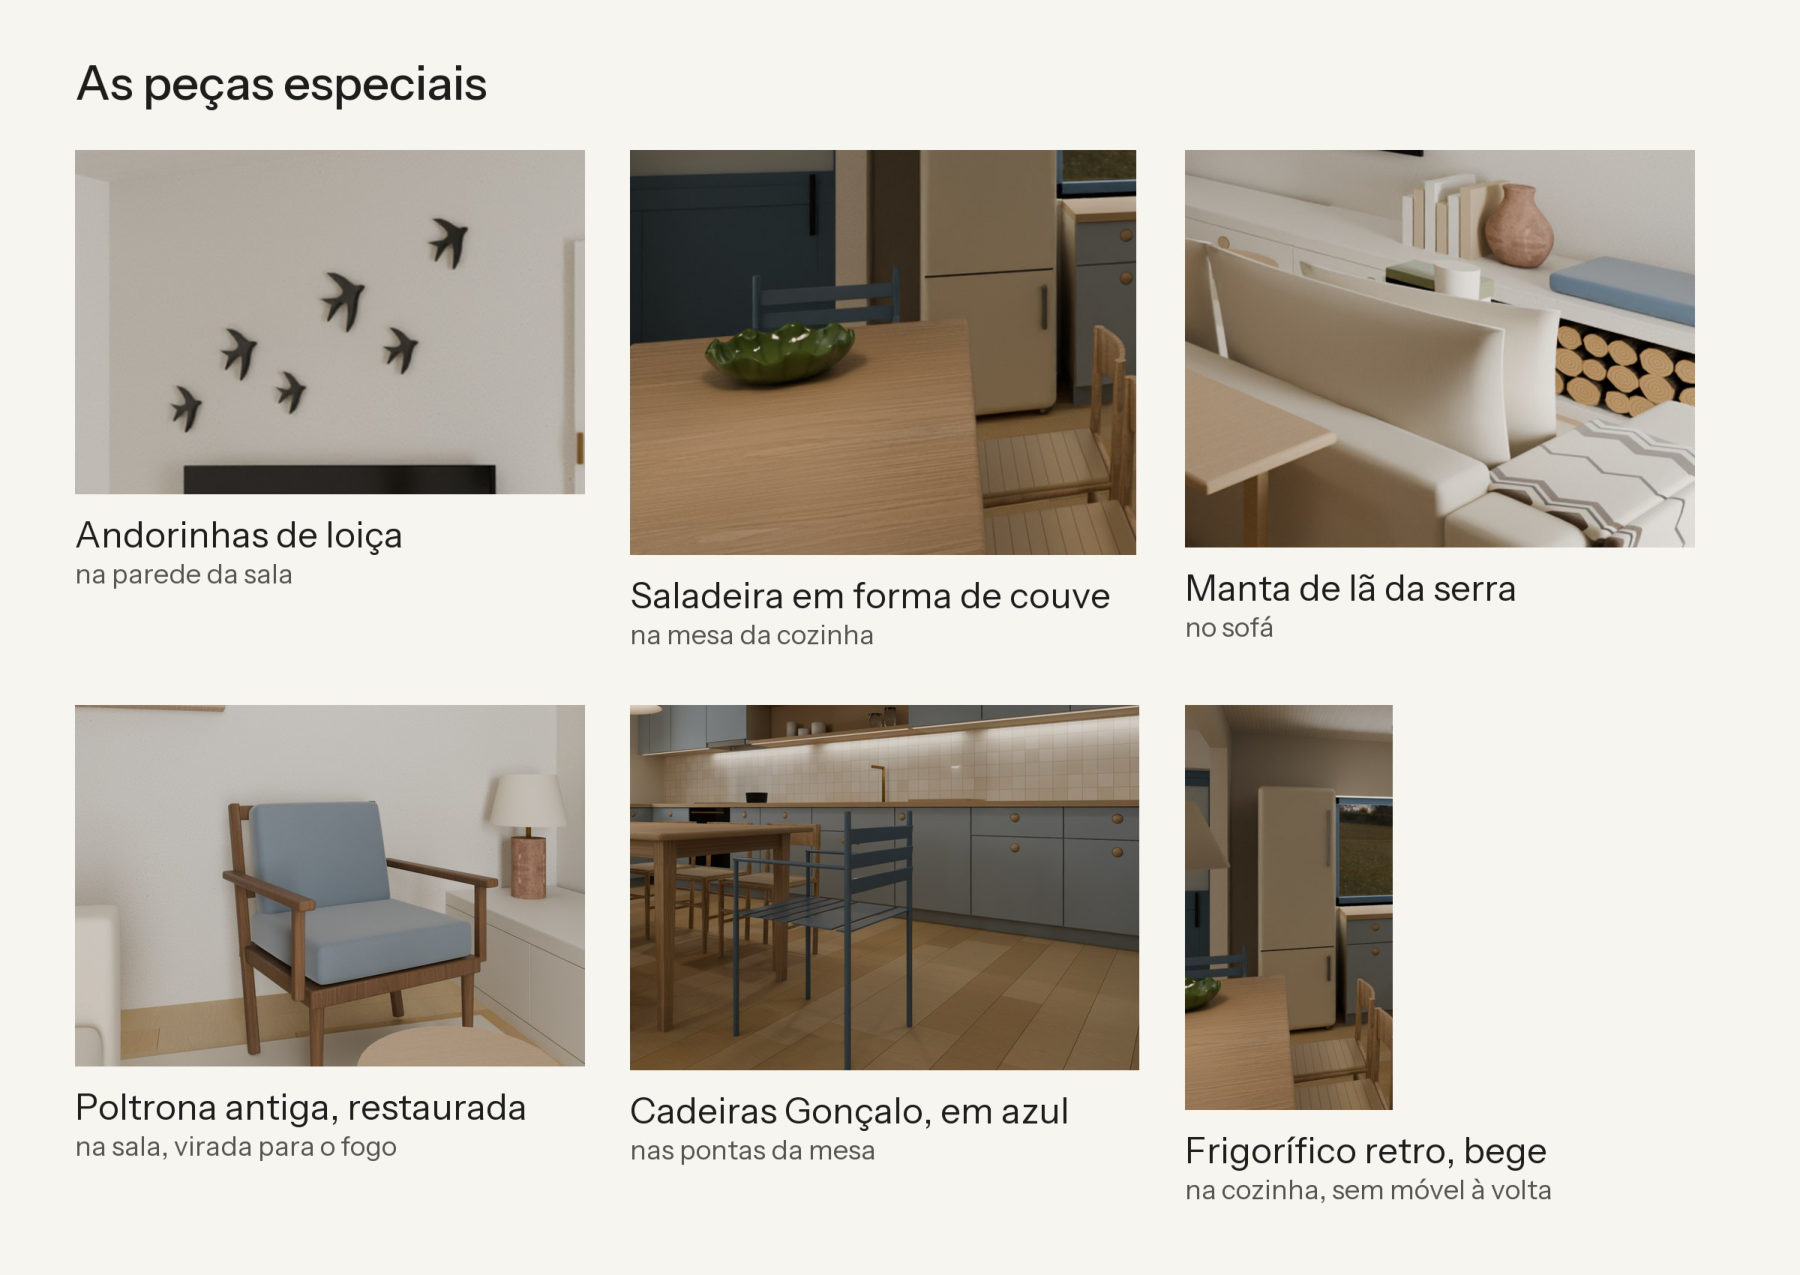
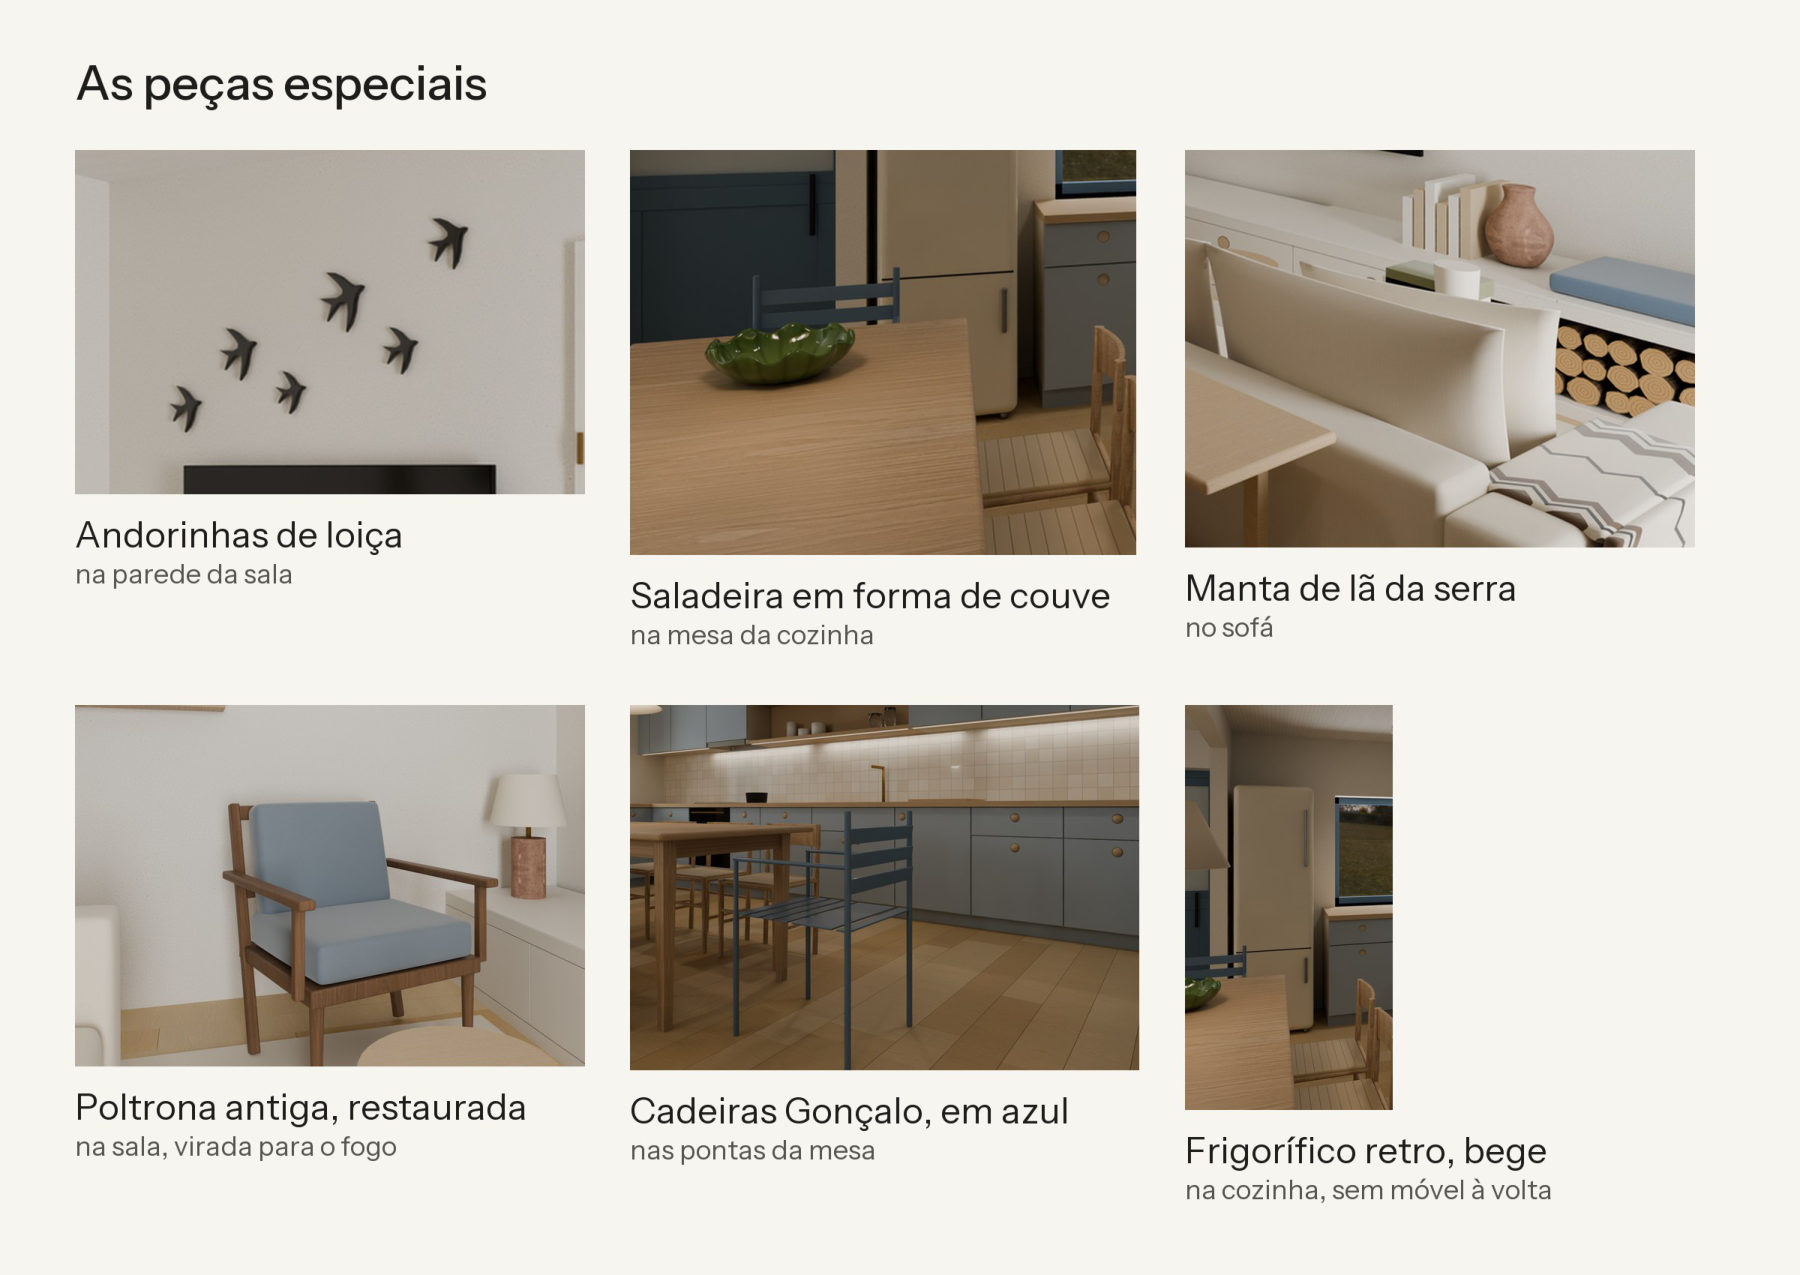
Documentos refeitos com a cozinha de hoje

Changed region(s): [[0.56, 0.1224, 0.6222, 0.3365], [0.6844, 0.6118, 0.7467, 0.8259], [0.4667, 0.1224, 0.5289, 0.2447]]

diff --git a/doc/estudo-previo.html b/doc/estudo-previo.html
@@ -19,4 +19,4 @@ figcaption{margin-top:10px;font-size:14px;color:var(--cinza)}
 <header><a href="../index.html#documentos" aria-label="Casa Chãs d’Égua, voltar ao projeto"><img class="logo" src="../marca/logo.svg" alt="" width="42" height="44"></a>
 <a class="voltar" href="../index.html#documentos"><svg viewBox="0 0 256 256" aria-hidden="true"><path d="M222,128a6,6,0,0,1-6,6H54.49l61.75,61.76a6,6,0,1,1-8.48,8.48l-72-72a6,6,0,0,1,0-8.48l72-72a6,6,0,0,1,8.48,8.48L54.49,122H216A6,6,0,0,1,222,128Z"/></svg>Voltar ao projeto</a></header>
 <div class="cab"><h1>Estudo prévio</h1><p>19 folhas em A3: plantas, cortes, vistas e mapa de acabamentos.</p></div>
-<main><figure><img src="ver/estudo-previo/01.jpg" width="1800" height="1273" alt="Estudo prévio, folha 1" loading="eager"><figcaption>Folha 1 de 19</figcaption></figure><figure><img src="ver/estudo-previo/02.jpg" width="1800" height="1273" alt="Estudo prévio, folha 2" loading="eager"><figcaption>Folha 2 de 19</figcaption></figure><figure><img src="ver/estudo-previo/03.jpg" width="1800" height="1273" alt="Estudo prévio, folha 3" loading="lazy"><figcaption>Folha 3 de 19</figcaption></figure><figure><img src="ver/estudo-previo/04.jpg" width="1800" height="1273" alt="Estudo prévio, folha 4" loading="lazy"><figcaption>Folha 4 de 19</figcaption></figure><figure><img src="ver/estudo-previo/05.jpg" width="1800" height="1273" alt="Estudo prévio, folha 5" loading="lazy"><figcaption>Folha 5 de 19</figcaption></figure><figure><img src="ver/estudo-previo/06.jpg" width="1800" height="1273" alt="Estudo prévio, folha 6" loading="lazy"><figcaption>Folha 6 de 19</figcaption></figure><figure><img src="ver/estudo-previo/07.jpg" width="1800" height="1273" alt="Estudo prévio, folha 7" loading="lazy"><figcaption>Folha 7 de 19</figcaption></figure><figure><img src="ver/estudo-previo/08.jpg" width="1800" height="1273" alt="Estudo prévio, folha 8" loading="lazy"><figcaption>Folha 8 de 19</figcaption></figure><figure><img src="ver/estudo-previo/09.jpg" width="1800" height="1273" alt="Estudo prévio, folha 9" loading="lazy"><figcaption>Folha 9 de 19</figcaption></figure><figure><img src="ver/estudo-previo/10.jpg" width="1800" height="1273" alt="Estudo prévio, folha 10" loading="lazy"><figcaption>Folha 10 de 19</figcaption></figure><figure><img src="ver/estudo-previo/11.jpg" width="1800" height="1273" alt="Estudo prévio, folha 11" loading="lazy"><figcaption>Folha 11 de 19</figcaption></figure><figure><img src="ver/estudo-previo/12.jpg" width="1800" height="1273" alt="Estudo prévio, folha 12" loading="lazy"><figcaption>Folha 12 de 19</figcaption></figure><figure><img src="ver/estudo-previo/13.jpg" width="1800" height="1273" alt="Estudo prévio, folha 13" loading="lazy"><figcaption>Folha 13 de 19</figcaption></figure><figure><img src="ver/estudo-previo/14.jpg" width="1800" height="1273" alt="Estudo prévio, folha 14" loading="lazy"><figcaption>Folha 14 de 19</figcaption></figure><figure><img src="ver/estudo-previo/15.jpg" width="1800" height="1273" alt="Estudo prévio, folha 15" loading="lazy"><figcaption>Folha 15 de 19</figcaption></figure><figure><img src="ver/estudo-previo/16.jpg" width="1800" height="1273" alt="Estudo prévio, folha 16" loading="lazy"><figcaption>Folha 16 de 19</figcaption></figure><figure><img src="ver/estudo-previo/17.jpg" width="1800" height="1273" alt="Estudo prévio, folha 17" loading="lazy"><figcaption>Folha 17 de 19</figcaption></figure><figure><img src="ver/estudo-previo/18.jpg" width="1800" height="1273" alt="Estudo prévio, folha 18" loading="lazy"><figcaption>Folha 18 de 19</figcaption></figure><figure><img src="ver/estudo-previo/19.jpg" width="1800" height="1273" alt="Estudo prévio, folha 19" loading="lazy"><figcaption>Folha 19 de 19</figcaption></figure></main></body></html>
+<main><figure><img src="ver/estudo-previo/01.jpg?v=13" width="1800" height="1273" alt="Estudo prévio, folha 1" loading="eager"><figcaption>Folha 1 de 19</figcaption></figure><figure><img src="ver/estudo-previo/02.jpg?v=13" width="1800" height="1273" alt="Estudo prévio, folha 2" loading="eager"><figcaption>Folha 2 de 19</figcaption></figure><figure><img src="ver/estudo-previo/03.jpg?v=13" width="1800" height="1273" alt="Estudo prévio, folha 3" loading="lazy"><figcaption>Folha 3 de 19</figcaption></figure><figure><img src="ver/estudo-previo/04.jpg?v=13" width="1800" height="1273" alt="Estudo prévio, folha 4" loading="lazy"><figcaption>Folha 4 de 19</figcaption></figure><figure><img src="ver/estudo-previo/05.jpg?v=13" width="1800" height="1273" alt="Estudo prévio, folha 5" loading="lazy"><figcaption>Folha 5 de 19</figcaption></figure><figure><img src="ver/estudo-previo/06.jpg?v=13" width="1800" height="1273" alt="Estudo prévio, folha 6" loading="lazy"><figcaption>Folha 6 de 19</figcaption></figure><figure><img src="ver/estudo-previo/07.jpg?v=13" width="1800" height="1273" alt="Estudo prévio, folha 7" loading="lazy"><figcaption>Folha 7 de 19</figcaption></figure><figure><img src="ver/estudo-previo/08.jpg?v=13" width="1800" height="1273" alt="Estudo prévio, folha 8" loading="lazy"><figcaption>Folha 8 de 19</figcaption></figure><figure><img src="ver/estudo-previo/09.jpg?v=13" width="1800" height="1273" alt="Estudo prévio, folha 9" loading="lazy"><figcaption>Folha 9 de 19</figcaption></figure><figure><img src="ver/estudo-previo/10.jpg?v=13" width="1800" height="1273" alt="Estudo prévio, folha 10" loading="lazy"><figcaption>Folha 10 de 19</figcaption></figure><figure><img src="ver/estudo-previo/11.jpg?v=13" width="1800" height="1273" alt="Estudo prévio, folha 11" loading="lazy"><figcaption>Folha 11 de 19</figcaption></figure><figure><img src="ver/estudo-previo/12.jpg?v=13" width="1800" height="1273" alt="Estudo prévio, folha 12" loading="lazy"><figcaption>Folha 12 de 19</figcaption></figure><figure><img src="ver/estudo-previo/13.jpg?v=13" width="1800" height="1273" alt="Estudo prévio, folha 13" loading="lazy"><figcaption>Folha 13 de 19</figcaption></figure><figure><img src="ver/estudo-previo/14.jpg?v=13" width="1800" height="1273" alt="Estudo prévio, folha 14" loading="lazy"><figcaption>Folha 14 de 19</figcaption></figure><figure><img src="ver/estudo-previo/15.jpg?v=13" width="1800" height="1273" alt="Estudo prévio, folha 15" loading="lazy"><figcaption>Folha 15 de 19</figcaption></figure><figure><img src="ver/estudo-previo/16.jpg?v=13" width="1800" height="1273" alt="Estudo prévio, folha 16" loading="lazy"><figcaption>Folha 16 de 19</figcaption></figure><figure><img src="ver/estudo-previo/17.jpg?v=13" width="1800" height="1273" alt="Estudo prévio, folha 17" loading="lazy"><figcaption>Folha 17 de 19</figcaption></figure><figure><img src="ver/estudo-previo/18.jpg?v=13" width="1800" height="1273" alt="Estudo prévio, folha 18" loading="lazy"><figcaption>Folha 18 de 19</figcaption></figure><figure><img src="ver/estudo-previo/19.jpg?v=13" width="1800" height="1273" alt="Estudo prévio, folha 19" loading="lazy"><figcaption>Folha 19 de 19</figcaption></figure></main></body></html>

diff --git a/doc/casa-de-chas-de-egua.html b/doc/casa-de-chas-de-egua.html
@@ -19,4 +19,4 @@ figcaption{margin-top:10px;font-size:14px;color:var(--cinza)}
 <header><a href="../index.html#documentos" aria-label="Casa Chãs d’Égua, voltar ao projeto"><img class="logo" src="../marca/logo.svg" alt="" width="42" height="44"></a>
 <a class="voltar" href="../index.html#documentos"><svg viewBox="0 0 256 256" aria-hidden="true"><path d="M222,128a6,6,0,0,1-6,6H54.49l61.75,61.76a6,6,0,1,1-8.48,8.48l-72-72a6,6,0,0,1,0-8.48l72-72a6,6,0,0,1,8.48,8.48L54.49,122H216A6,6,0,0,1,222,128Z"/></svg>Voltar ao projeto</a></header>
 <div class="cab"><h1>A casa por dentro</h1><p>As vistas interiores em página inteira.</p></div>
-<main><figure><img src="ver/casa-de-chas-de-egua/01.jpg" width="1800" height="1275" alt="A casa por dentro, folha 1" loading="eager"><figcaption>Folha 1 de 15</figcaption></figure><figure><img src="ver/casa-de-chas-de-egua/02.jpg" width="1800" height="1275" alt="A casa por dentro, folha 2" loading="eager"><figcaption>Folha 2 de 15</figcaption></figure><figure><img src="ver/casa-de-chas-de-egua/03.jpg" width="1800" height="1275" alt="A casa por dentro, folha 3" loading="lazy"><figcaption>Folha 3 de 15</figcaption></figure><figure><img src="ver/casa-de-chas-de-egua/04.jpg" width="1800" height="1275" alt="A casa por dentro, folha 4" loading="lazy"><figcaption>Folha 4 de 15</figcaption></figure><figure><img src="ver/casa-de-chas-de-egua/05.jpg" width="1800" height="1275" alt="A casa por dentro, folha 5" loading="lazy"><figcaption>Folha 5 de 15</figcaption></figure><figure><img src="ver/casa-de-chas-de-egua/06.jpg" width="1800" height="1275" alt="A casa por dentro, folha 6" loading="lazy"><figcaption>Folha 6 de 15</figcaption></figure><figure><img src="ver/casa-de-chas-de-egua/07.jpg" width="1800" height="1275" alt="A casa por dentro, folha 7" loading="lazy"><figcaption>Folha 7 de 15</figcaption></figure><figure><img src="ver/casa-de-chas-de-egua/08.jpg" width="1800" height="1275" alt="A casa por dentro, folha 8" loading="lazy"><figcaption>Folha 8 de 15</figcaption></figure><figure><img src="ver/casa-de-chas-de-egua/09.jpg" width="1800" height="1275" alt="A casa por dentro, folha 9" loading="lazy"><figcaption>Folha 9 de 15</figcaption></figure><figure><img src="ver/casa-de-chas-de-egua/10.jpg" width="1800" height="1275" alt="A casa por dentro, folha 10" loading="lazy"><figcaption>Folha 10 de 15</figcaption></figure><figure><img src="ver/casa-de-chas-de-egua/11.jpg" width="1800" height="1275" alt="A casa por dentro, folha 11" loading="lazy"><figcaption>Folha 11 de 15</figcaption></figure><figure><img src="ver/casa-de-chas-de-egua/12.jpg" width="1800" height="1275" alt="A casa por dentro, folha 12" loading="lazy"><figcaption>Folha 12 de 15</figcaption></figure><figure><img src="ver/casa-de-chas-de-egua/13.jpg" width="1800" height="1275" alt="A casa por dentro, folha 13" loading="lazy"><figcaption>Folha 13 de 15</figcaption></figure><figure><img src="ver/casa-de-chas-de-egua/14.jpg" width="1800" height="1275" alt="A casa por dentro, folha 14" loading="lazy"><figcaption>Folha 14 de 15</figcaption></figure><figure><img src="ver/casa-de-chas-de-egua/15.jpg" width="1800" height="1275" alt="A casa por dentro, folha 15" loading="lazy"><figcaption>Folha 15 de 15</figcaption></figure></main></body></html>
+<main><figure><img src="ver/casa-de-chas-de-egua/01.jpg?v=13" width="1800" height="1275" alt="A casa por dentro, folha 1" loading="eager"><figcaption>Folha 1 de 15</figcaption></figure><figure><img src="ver/casa-de-chas-de-egua/02.jpg?v=13" width="1800" height="1275" alt="A casa por dentro, folha 2" loading="eager"><figcaption>Folha 2 de 15</figcaption></figure><figure><img src="ver/casa-de-chas-de-egua/03.jpg?v=13" width="1800" height="1275" alt="A casa por dentro, folha 3" loading="lazy"><figcaption>Folha 3 de 15</figcaption></figure><figure><img src="ver/casa-de-chas-de-egua/04.jpg?v=13" width="1800" height="1275" alt="A casa por dentro, folha 4" loading="lazy"><figcaption>Folha 4 de 15</figcaption></figure><figure><img src="ver/casa-de-chas-de-egua/05.jpg?v=13" width="1800" height="1275" alt="A casa por dentro, folha 5" loading="lazy"><figcaption>Folha 5 de 15</figcaption></figure><figure><img src="ver/casa-de-chas-de-egua/06.jpg?v=13" width="1800" height="1275" alt="A casa por dentro, folha 6" loading="lazy"><figcaption>Folha 6 de 15</figcaption></figure><figure><img src="ver/casa-de-chas-de-egua/07.jpg?v=13" width="1800" height="1275" alt="A casa por dentro, folha 7" loading="lazy"><figcaption>Folha 7 de 15</figcaption></figure><figure><img src="ver/casa-de-chas-de-egua/08.jpg?v=13" width="1800" height="1275" alt="A casa por dentro, folha 8" loading="lazy"><figcaption>Folha 8 de 15</figcaption></figure><figure><img src="ver/casa-de-chas-de-egua/09.jpg?v=13" width="1800" height="1275" alt="A casa por dentro, folha 9" loading="lazy"><figcaption>Folha 9 de 15</figcaption></figure><figure><img src="ver/casa-de-chas-de-egua/10.jpg?v=13" width="1800" height="1275" alt="A casa por dentro, folha 10" loading="lazy"><figcaption>Folha 10 de 15</figcaption></figure><figure><img src="ver/casa-de-chas-de-egua/11.jpg?v=13" width="1800" height="1275" alt="A casa por dentro, folha 11" loading="lazy"><figcaption>Folha 11 de 15</figcaption></figure><figure><img src="ver/casa-de-chas-de-egua/12.jpg?v=13" width="1800" height="1275" alt="A casa por dentro, folha 12" loading="lazy"><figcaption>Folha 12 de 15</figcaption></figure><figure><img src="ver/casa-de-chas-de-egua/13.jpg?v=13" width="1800" height="1275" alt="A casa por dentro, folha 13" loading="lazy"><figcaption>Folha 13 de 15</figcaption></figure><figure><img src="ver/casa-de-chas-de-egua/14.jpg?v=13" width="1800" height="1275" alt="A casa por dentro, folha 14" loading="lazy"><figcaption>Folha 14 de 15</figcaption></figure><figure><img src="ver/casa-de-chas-de-egua/15.jpg?v=13" width="1800" height="1275" alt="A casa por dentro, folha 15" loading="lazy"><figcaption>Folha 15 de 15</figcaption></figure></main></body></html>

diff --git a/doc/frentes-cozinha-para-o-carpinteiro.html b/doc/frentes-cozinha-para-o-carpinteiro.html
@@ -19,4 +19,4 @@ figcaption{margin-top:10px;font-size:14px;color:var(--cinza)}
 <header><a href="../index.html#documentos" aria-label="Casa Chãs d’Égua, voltar ao projeto"><img class="logo" src="../marca/logo.svg" alt="" width="42" height="44"></a>
 <a class="voltar" href="../index.html#documentos"><svg viewBox="0 0 256 256" aria-hidden="true"><path d="M222,128a6,6,0,0,1-6,6H54.49l61.75,61.76a6,6,0,1,1-8.48,8.48l-72-72a6,6,0,0,1,0-8.48l72-72a6,6,0,0,1,8.48,8.48L54.49,122H216A6,6,0,0,1,222,128Z"/></svg>Voltar ao projeto</a></header>
 <div class="cab"><h1>Frentes da cozinha</h1><p>Lista de frentes e puxadores para orçamento.</p></div>
-<main><figure><img src="ver/frentes-cozinha-para-o-carpinteiro/01.jpg?v=4" width="1273" height="1800" alt="Frentes da cozinha, folha 1" loading="eager"><figcaption>Folha 1 de 1</figcaption></figure></main></body></html>
+<main><figure><img src="ver/frentes-cozinha-para-o-carpinteiro/01.jpg?v=13" width="1273" height="1800" alt="Frentes da cozinha, folha 1" loading="eager"><figcaption>Folha 1 de 1</figcaption></figure></main></body></html>
